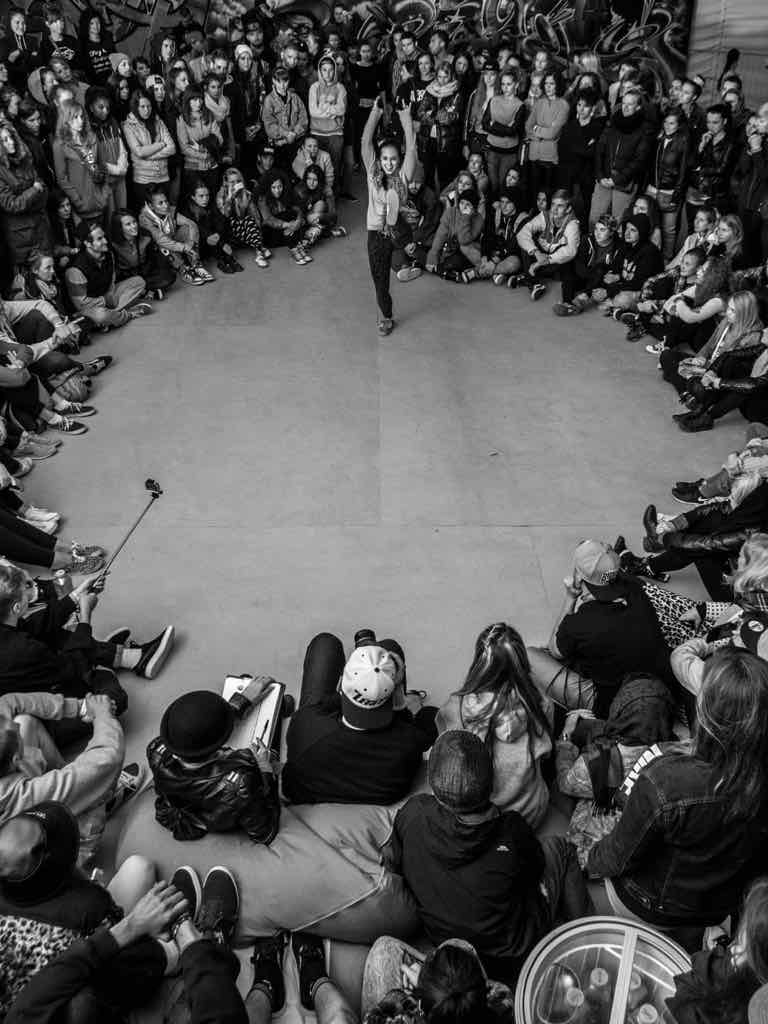
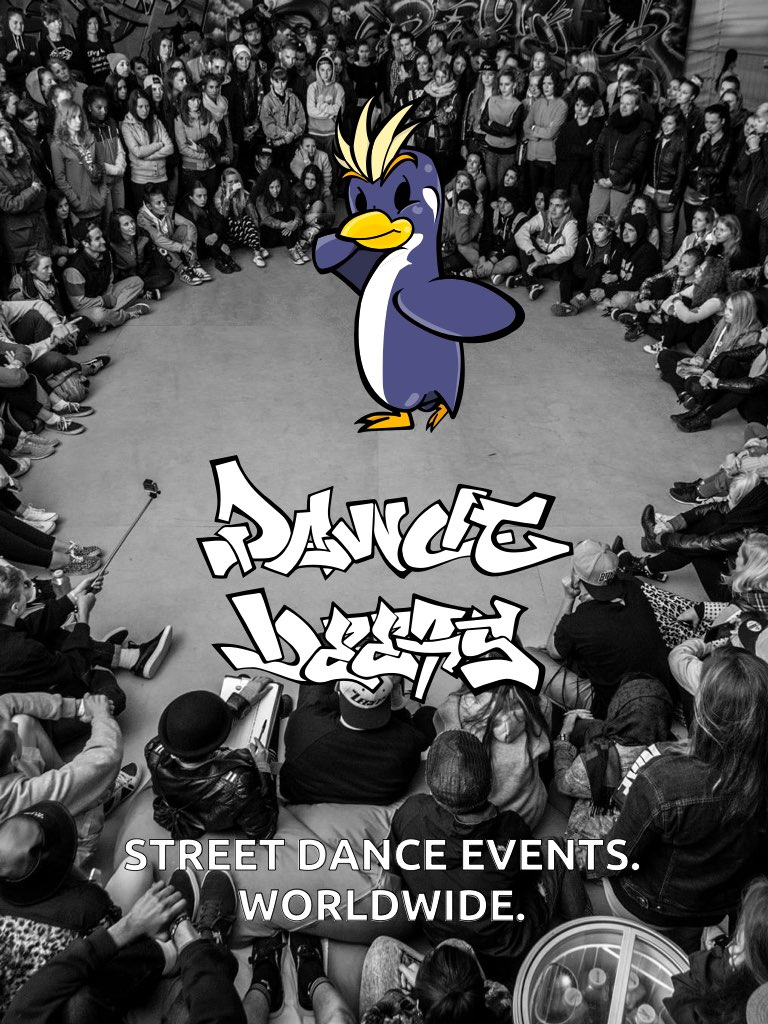
Rework the LoginScreen image to be a single thing (instead of two components). And unify the launch screen and the tutorial screen page one.

diff --git a/js/login/TutorialScreen.js b/js/login/TutorialScreen.js
@@ -12,6 +12,7 @@ import {
   View,
 } from 'react-native';
 import Carousel from 'react-native-carousel';
+import LaunchScreen from './LaunchScreen';
 import LinearGradient from 'react-native-linear-gradient';
 import LoginButtonWithAlternate from './LoginButtonWithAlternate';
 import { Text } from '../ui';
@@ -79,14 +80,7 @@ export default class TutorialScreen extends React.Component {
       style={styles.bottomFade} />;
 
     if (pageID === 0) {
-      return <Image
-        style={styles.container}
-        source={require('./images/LaunchScreen.jpg')}>
-        {bottomFade}
-        <Image
-          style={styles.container}
-          source={require('./images/LaunchScreenText.png')} />
-      </Image>;
+      return <LaunchScreen>{bottomFade}</LaunchScreen>
     } else if (pageID === 1) {
       return <Image
         style={styles.container}

diff --git a/js/login/LaunchScreen.js b/js/login/LaunchScreen.js
@@ -12,15 +12,11 @@ import {
 
 export default class LaunchScreen extends React.Component {
   render() {
-    return (
-      <Image
-        style={styles.container}
-        source={require('./images/LaunchScreen.jpg')}>
-        <Image
-          style={styles.container}
-          source={require('./images/LaunchScreenText.png')} />
-      </Image>
-    );
+    return <Image
+      style={styles.container}
+      source={require('./images/LaunchScreen.jpg')}>
+      {this.props.children}
+    </Image>;
   }
 }
 
